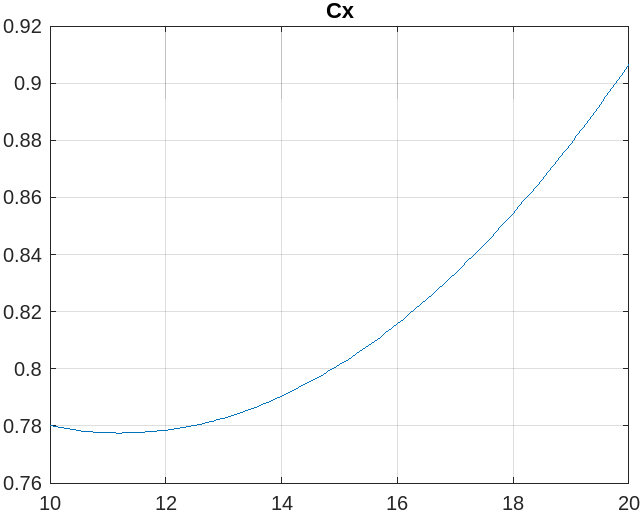
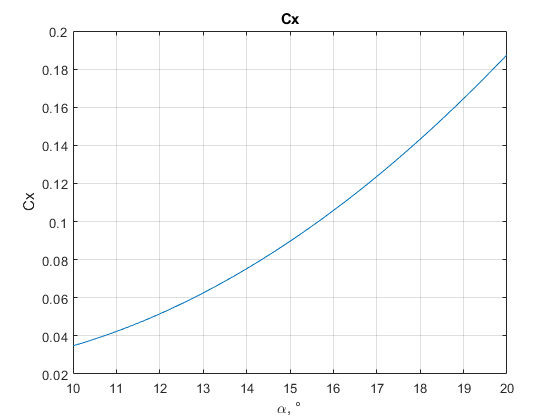
final final

diff --git a/src/carrythatway.py b/src/carrythatway.py
@@ -40,6 +40,11 @@ time = r[0][0][0]
 
 way = list(zip(*way))
 
+print(*reversed(r), sep='\n')
+print()
+print(*way)
+print(time)
+
 fig, ax = plt.subplots()
 #x = way[1] * times.dV + times.fa_v1
 dV = times.dV
@@ -49,14 +54,19 @@ x = [w1 * dV + fa_v1 for w1 in way[1]]
 dH = times.dH
 fa_H1 = times.fa_H1
 y = [w0 * dH + fa_H1 for w0 in way[0]]
+print(x, y, sep='\n')
 ax.plot(x, y)
 ax.set_xticks(np.arange(0, n) * times.dV + times.fa_v1)
 ax.set_yticks(np.arange(0, n) * times.dH + times.fa_H1)
+ax.set_xlim(left=x[0], right=x[-1])
+ax.set_ylim(bottom=y[0], top=y[-1])
+ax.set_xlabel("V, м/c")
+ax.set_ylabel("H, м")
+ax.set_aspect(1./ax.get_data_ratio())
 plt.grid(visible=True)
+plt.draw()
+
+ax.set_xticklabels(ax.get_xticks(), rotation = 90)
+plt.tight_layout()
+ax.spines[['right', 'top']].set_visible(False)
 plt.show()
-
-
-print(*reversed(r), sep='\n')
-print()
-print(*way)
-print(time)

diff --git a/src/times.py b/src/times.py
@@ -7,8 +7,8 @@ g = lambda H: 9.806666 - 0.000003 * H
 m = 98000
 S = 201
 engines = 3
-P_f = lambda M: engines * (3390 * M * M - 6921 * M + 33431) #ОК
-rho = lambda H: 1.22293 - 0.00011 * H
+P_f = lambda M: engines * (3390 * M * M - 6921 * M + 33431)  #ОК
+rho = lambda H: 1.22 - 1.14e-4 * H + 3.34e-9 * H * H
 a = lambda H: 340.28431 - 0.00382 * H
 M_f = lambda v, H: v / a(H)
 v_f = lambda v1, v2: (v1 + v2) / 2

diff --git a/src/graphs.m b/src/graphs.m
@@ -18,18 +18,24 @@ aa = 10:0.1:20;
 CyCy = Cy(aa);
 CxCx = Cx(aa);
 
-
+figure(1)
 plot(MM, PP)
 grid on
 grid minor
 title("Тяга")
+xlabel('M') 
+ylabel('P, H') 
 figure(2)
 plot(aa, CxCx)
 title("Cx")
+xlabel(['\alpha, ' char(176)]) 
+ylabel('Cx') 
 grid on
 figure(3)
 plot(aa, CyCy)
 title("Cy")
+xlabel(['\alpha, ' char(176)]) 
+ylabel('Cy') 
 grid on
 
 function Cy_f = Cy(alpha)

diff --git a/src/main.py b/src/main.py
@@ -10,7 +10,7 @@ y_data = list(map(atof, input().split()))
 
 func = polyfill(x_data, y_data, 2)
 
-with np.printoptions(precision=6, suppress=True):
+with np.printoptions(precision=2):
     print(func)
 
 draw_plot(func, x_label, y_label, title)
